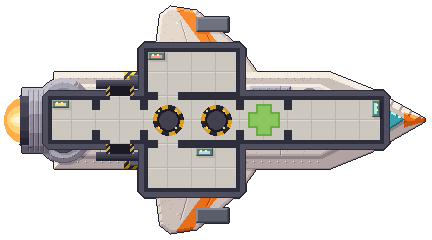
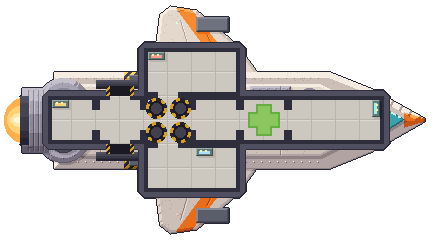
Boarding pod room only as big as its hatches: a hatch on every tile
Zachary picked option C (the pod carries 4) and asked for the room to be only as big as its hatches. Pod rooms
now have a launch hatch on every floor tile and only crew on a hatch launch. The covered fighter's pod room is
one cell (four hatches); the freed cell is a small crew deck with doors to the pods and the medbay.

Claude-Session: https://claude.ai/code/session_013NFuzHRwfTbYkDqEBL2Kc9

Changed region(s): [[0.331, 0.4083, 0.5417, 0.6125]]

diff --git a/tools/dev/ship_art/kit2x.py b/tools/dev/ship_art/kit2x.py
@@ -311,37 +311,38 @@ def interior(p, rooms, doors, cell=CELL, wall_mat="wall", bays=(), airlocks=None
     return p
 
 
-# Boarding (Zachary, 22 Nov; claude/echo-landing-boarding.md): a boarding pods room has a launch hatch in every cell,
-# one per crew member (a dark well in a yellow-and-black striped ring, four orange lights); a medbay has a green
-# cross on the floor of every cell.
+# Boarding (Zachary, 22 Nov; claude/echo-landing-boarding.md): a boarding pods room is only as big as its hatches,
+# one launch hatch on every floor tile (a dark well in a yellow-and-black striped ring); a one-cell pod room has four,
+# and the pod carries that many. A medbay has a green cross on the floor of every cell.
 def floor_marks(p, room, cell, k):
     cx, cy, cw, ch, sysname = room
     if sysname not in ("pods", "medbay"):
         return
     yy, xx = np.mgrid[0:p.h, 0:p.w]
+    if sysname == "pods":
+        tile = cell // 2
+        for n in range(cw * 2 * ch * 2):
+            mx = cx * cell + (n % (cw * 2)) * tile + tile // 2
+            my = cy * cell + (n // (cw * 2)) * tile + tile // 2
+            r = 5.0 * k
+            ring = p.mask(ellipse=(mx - r, my - r, mx + r, my + r))
+            p.mat[ring] = "yellow"; p.tone[ring] = 3
+            ang = (np.degrees(np.arctan2(yy - my, xx - mx)) + 360.0) % 360.0
+            stripe = ring & ((ang // 30) % 2 == 1)
+            p.mat[stripe] = "dark"; p.tone[stripe] = 1
+            well = p.mask(ellipse=(mx - 3.5 * k, my - 3.5 * k, mx + 3.5 * k, my + 3.5 * k))
+            p.mat[well] = "dark"; p.tone[well] = 0
+            inner = p.mask(ellipse=(mx - 2.5 * k, my - 2.5 * k, mx + 2.5 * k, my + 2.5 * k))
+            p.mat[inner] = "bay"; p.tone[inner] = 2
+        return
     for x in range(cx, cx + cw):
         for y in range(cy, cy + ch):
             mx, my = x * cell + cell // 2, y * cell + cell // 2
-            r = 7.5 * k
-            if sysname == "pods":
-                ring = p.mask(ellipse=(mx - r, my - r, mx + r, my + r))
-                p.mat[ring] = "yellow"; p.tone[ring] = 3
-                ang = (np.degrees(np.arctan2(yy - my, xx - mx)) + 360.0) % 360.0
-                stripe = ring & ((ang // 30) % 2 == 1)
-                p.mat[stripe] = "dark"; p.tone[stripe] = 1
-                well = p.mask(ellipse=(mx - 5.5 * k, my - 5.5 * k, mx + 5.5 * k, my + 5.5 * k))
-                p.mat[well] = "dark"; p.tone[well] = 0
-                inner = p.mask(ellipse=(mx - 4.5 * k, my - 4.5 * k, mx + 4.5 * k, my + 4.5 * k))
-                p.mat[inner] = "bay"; p.tone[inner] = 2
-                for a in (45, 135, 225, 315):
-                    lx, ly = int(mx + 6 * k * np.cos(np.radians(a))), int(my + 6 * k * np.sin(np.radians(a)))
-                    p.glow(p.mask(rect=(lx - 1, ly - 1, lx, ly)), "glow", 3)
-            else:
-                a, b = int(4 * k), int(8 * k)
-                cross = p.mask(rect=(mx - a, my - b, mx + a - 1, my + b - 1)) | p.mask(rect=(mx - b, my - a, mx + b - 1, my + a - 1))
-                p.mat[cross] = "green"; p.tone[cross] = 4
-                inner = p.mask(rect=(mx - a + 2, my - b + 2, mx + a - 3, my + b - 3)) | p.mask(rect=(mx - b + 2, my - a + 2, mx + b - 3, my + a - 3))
-                p.tone[inner] = 5
+            a, b = int(4 * k), int(8 * k)
+            cross = p.mask(rect=(mx - a, my - b, mx + a - 1, my + b - 1)) | p.mask(rect=(mx - b, my - a, mx + b - 1, my + a - 1))
+            p.mat[cross] = "green"; p.tone[cross] = 4
+            inner = p.mask(rect=(mx - a + 2, my - b + 2, mx + a - 3, my + b - 3)) | p.mask(rect=(mx - b + 2, my - a + 2, mx + b - 3, my + a - 3))
+            p.tone[inner] = 5
 
 
 # Rooms where crew stand at a console and boost the system (Zachary, 21 Nov: "the rooms should just have consoles

diff --git a/tools/dev/ship_art/story2x.py b/tools/dev/ship_art/story2x.py
@@ -383,10 +383,14 @@ INSIDES = {
     # fuselage (engines, oxygen, the crew deck, a hold, the 2 x 1 cockpit), weapons in the top wing root, shields in
     # the bottom one.
     "covered_fighter": (
-        {"engines": (1, 2, 1, 1, "engines"), "life": (2, 2, 1, 1, "life"), "pods": (3, 2, 2, 1, "pods"),
+        # the pod room is just as big as its hatches (Zachary, 22 Nov): one cell, four floor tiles, four hatches;
+        # the cell beside it is a small crew deck
+        {"engines": (1, 2, 1, 1, "engines"), "life": (2, 2, 1, 1, "life"), "pods": (3, 2, 1, 1, "pods"),
+         "crew": (4, 2, 1, 1, ""),
          "weapons": (3, 1, 2, 1, "weapons"), "shields": (3, 3, 2, 1, "shields"), "medbay": (5, 2, 1, 1, "medbay"),
          "pilot": (6, 2, 2, 1, "pilot")},
-        [((1, 2), (2, 2)), ((2, 2), (3, 2)), ((3, 2), (3, 1)), ((3, 2), (3, 3)), ((4, 2), (5, 2)), ((5, 2), (6, 2))],
+        [((1, 2), (2, 2)), ((2, 2), (3, 2)), ((3, 2), (3, 1)), ((3, 2), (3, 3)), ((3, 2), (4, 2)), ((4, 2), (5, 2)),
+         ((5, 2), (6, 2))],
     ),
     # Ana's corsair, 7 x 5: a corridor down the needle (crew, shields, weapons, the chart room under the star dome,
     # the cockpit under the canopy), engines in the top nacelle and oxygen in the bottom one.

diff --git a/docs/SHIP_ART_UI.md b/docs/SHIP_ART_UI.md
@@ -736,8 +736,9 @@ Ideas with residents behind them:
 - Smarter enemies switch targets to finish off a damaged system.
 
 **Boarding (decided 22 Nov; full rules in `claude/echo-landing-boarding.md`):**
-- **Boarding pods** instead of a teleporter: a room you install (2 crew on small ships, 3–4 on bigger), one
-  launch hatch per crew place. LAUNCH on the system bar, then click an enemy room: the pod flies across like a
+- **Boarding pods** instead of a teleporter: a room you install, only as big as its hatches (Zachary, 22 Nov): one
+  launch hatch on every floor tile, and only crew standing on a hatch go. The covered fighter's is one cell, four
+  hatches, so its pod carries 4; the cell beside it is a small crew deck. LAUNCH on the system bar, then click an enemy room: the pod flies across like a
   missile that always hits, and your crew appear in that room and fight. RECALL brings them back once the room has
   recharged. Tabs: `art/ui/ship/pod_tabs.png`; pods: `art/ships/shots/pod.png`, `pod_rabble.png`
   (`tools/dev/ship_art/pods2x.py`); icon `pods` (last in `icons_systems.png`).
